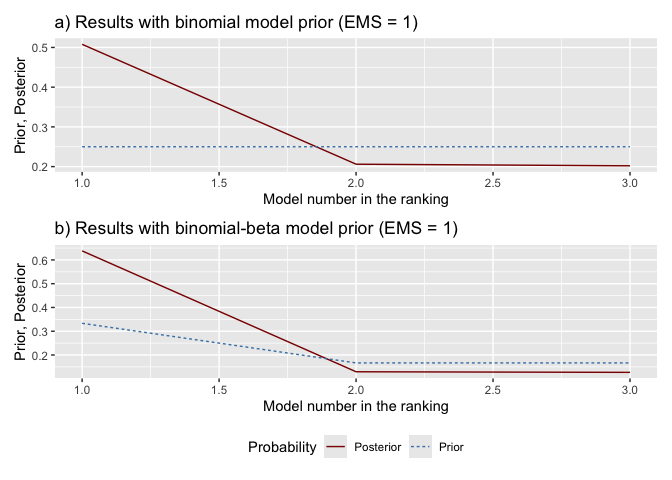
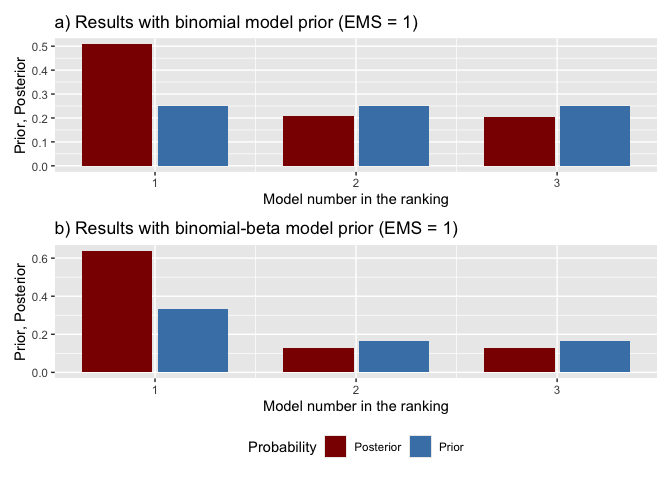
Updated docs for the 0.7.0 release

diff --git a/README.md b/README.md
@@ -170,7 +170,7 @@ bma_results <- badp::bma(model_space, round = 3)
 badp::bma_table(bma_results)
 #>           PIP     PM   PSD  PSDR  PMcon PSDcon PSDRcon %(+)
 #> gdp_lag    NA  1.078 0.110 0.227  1.078  0.110   0.227  100
-#> ish     0.710  0.085 0.061 0.090  0.120  0.032   0.084  100
+#> ish     0.710  0.085 0.061 0.090  0.120  0.032   0.085  100
 #> sed     0.714 -0.046 0.061 0.111 -0.065  0.064   0.127    0
 badp::bma_table(bma_results, prior = "beta")
 #>           PIP     PM   PSD  PSDR  PMcon PSDcon PSDRcon %(+)
@@ -205,8 +205,10 @@ parameter estimate is positive.
     mass is distributed across different model sizes.
 
 ``` r
-# Prior vs. posterior model probabilities, three best models
-badp::model_pmp(bma_results, top = 3)
+# Prior vs. posterior model probabilities, three best models.
+# `type = "histogram"` draws bars, which read well for a handful of models;
+# the default `"line"` is better once there are many.
+badp::model_pmp(bma_results, top = 3, type = "histogram")
 ```
 
 <img src="man/figures/README-unnamed-chunk-6-1.png" alt="" width="100%" />
@@ -254,8 +256,8 @@ summary(top3_binom, robust = TRUE)
 #> Estimates (robust standard errors in parentheses):
 #>         No. 1            No. 2            No. 3           
 #> gdp_lag 1.079 (0.273)*** 1.126 (0.151)*** 1.027 (0.191)***
-#> ish     0.119 (0.085)                     0.121 (0.082)   
-#> sed     -0.06 (0.126)    -0.077 (0.128)                   
+#> ish     0.119 (0.086)                     0.121 (0.082)   
+#> sed     -0.06 (0.126)    -0.077 (0.127)                   
 #> PMP     0.508            0.206            0.202           
 #> 
 #> Signif. codes: 0.01 '***'  0.05 '**'  0.1 '*'
@@ -328,7 +330,7 @@ bma_obj <- badp::bma(
 
 # 4) Inspect the top 3 models under binomial prior
 best_3 <- badp::best_models(
-  bma_list = bma_obj,
+  x = bma_obj,
   prior = "binomial",
   best = 3
 )

diff --git a/cran-comments.md b/cran-comments.md
@@ -26,19 +26,23 @@ NEWS.md and summarized here:
   for consistency with the accessors and with the S3 methods.
 * `join_lagged_col()` is no longer marked as internal and now appears in the
   package index.
+* `knitr` moved from `Imports` to `Suggests`. The package no longer calls it;
+  it is still required to build the vignette and remains declared as the
+  `VignetteBuilder`.
 
 ## R CMD check results
 
 0 errors | 0 warnings | 1 note
 
-* checking for future file timestamps ... NOTE
-  unable to verify current time
+* checking HTML version of manual ... NOTE
+  Skipping checking HTML validation: 'tidy' doesn't look like recent enough
+  HTML Tidy
 
-  This NOTE reflects the check machine being unable to reach the time server
+  This NOTE reflects the version of HTML Tidy installed on the check machine
   and is unrelated to the package.
 
 Checked locally with `R CMD check --as-cran`, including the CRAN incoming
-checks and the PDF manual, against R 4.4.1 on macOS (aarch64-apple-darwin20),
+checks and the PDF manual, against R 4.5.1 on macOS (aarch64-apple-darwin20),
 and via the GitHub Actions R-CMD-check workflow on Linux, macOS and Windows
 across release, oldrel and devel.
 
@@ -47,7 +51,8 @@ check reports no problems.
 
 ## Downstream dependencies
 
-There are no downstream dependencies on CRAN.
+There are no downstream dependencies on CRAN. The breaking changes listed
+above therefore affect no other CRAN package.
 
 # 0.6.1
 

diff --git a/NEWS.md b/NEWS.md
@@ -50,7 +50,7 @@ breaking; they are marked below.
 
 * `model_sizes()` and `model_pmp()` gained a `type` argument. `"line"` keeps
   the existing display; `"histogram"` draws the prior and the posterior as
-  side-by-side bars, as in the companion package \pkg{rmsBMA}. Bars read well
+  side-by-side bars, as in the companion package `rmsBMA`. Bars read well
   when few models or model sizes are shown -- a small `top`, or a handful of
   regressors -- while the lines stay legible when there are many. The
   argument passes through `plot()`, so
